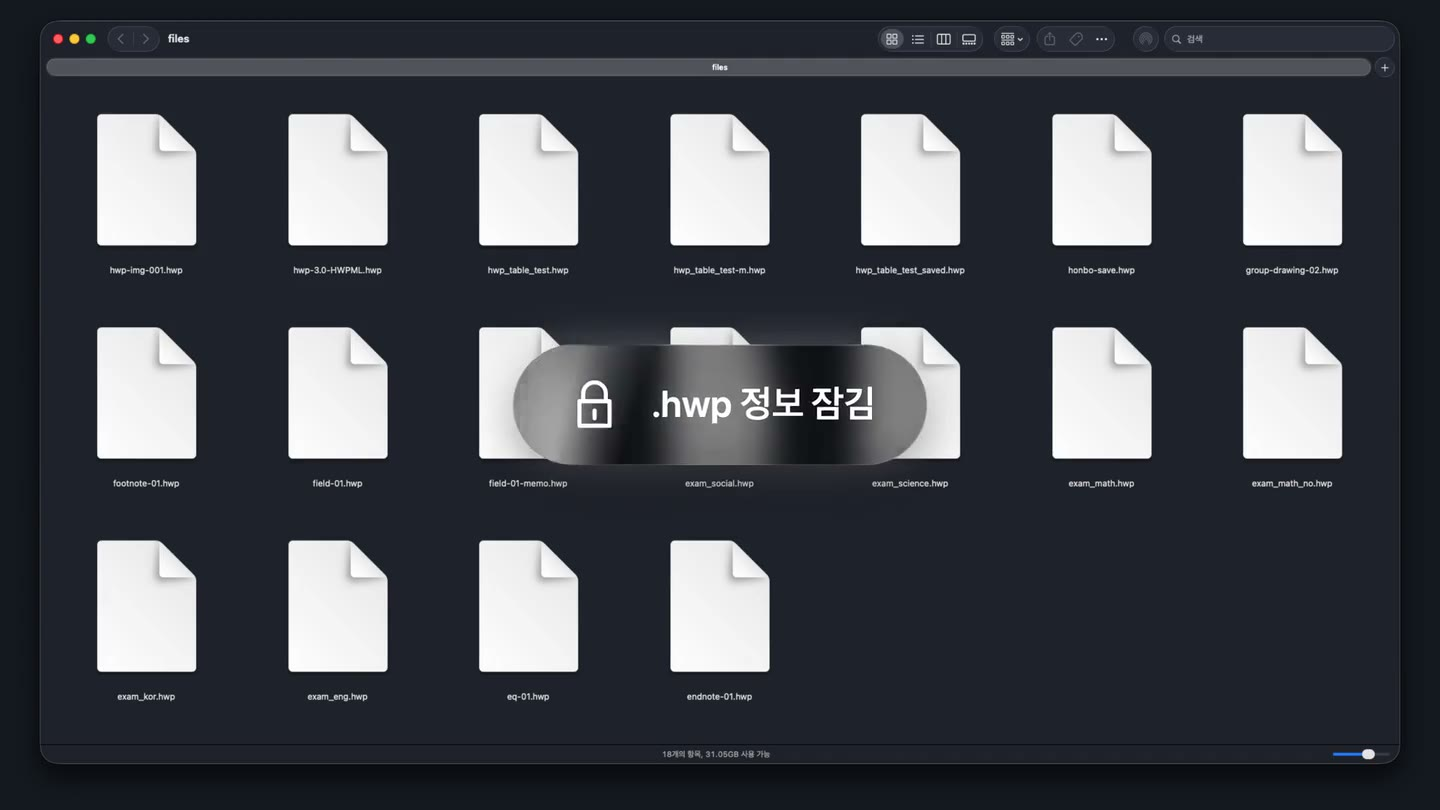
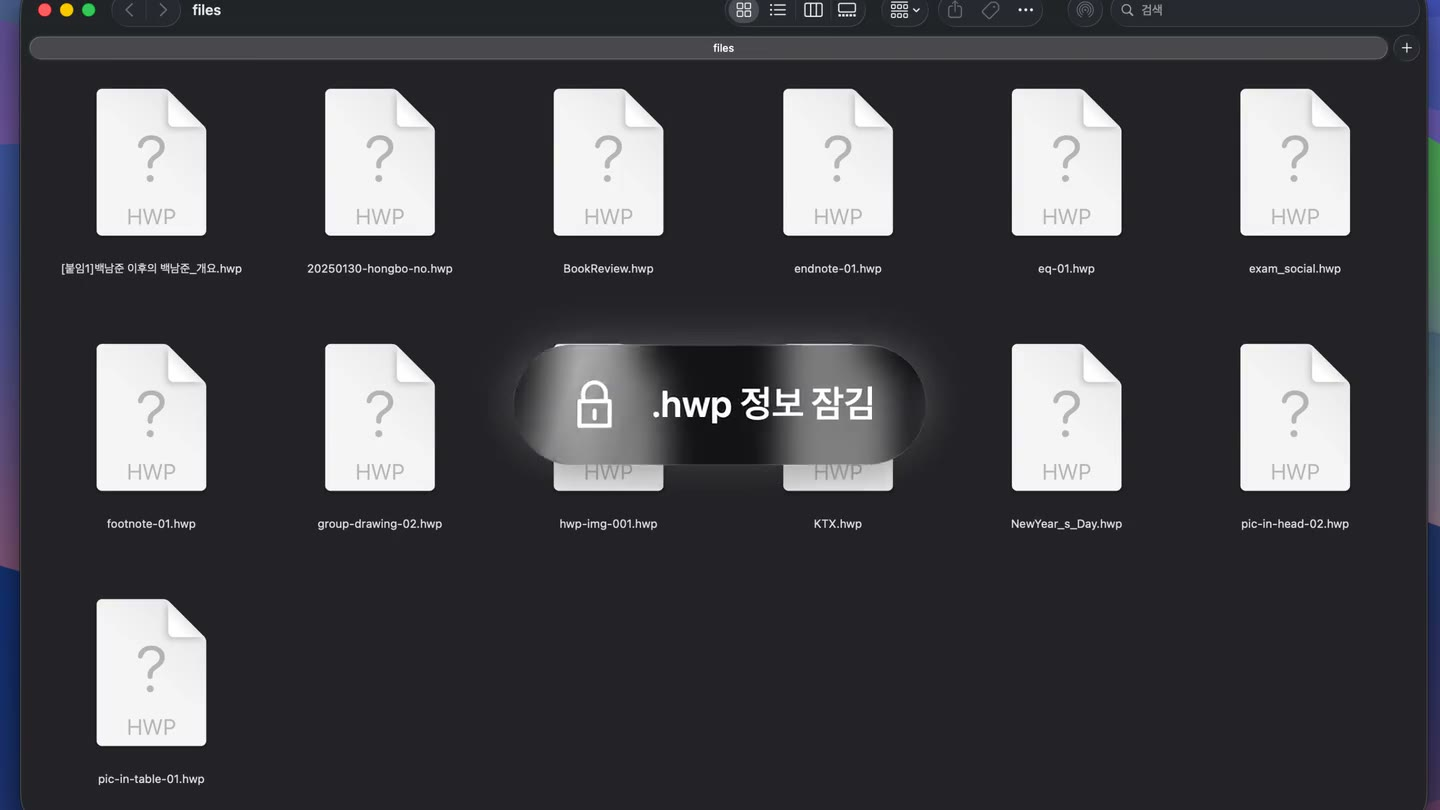
Update Finder feature video assets

diff --git a/docs/index.html b/docs/index.html
@@ -134,8 +134,8 @@
           <figure class="feature-visual" aria-label="알한글 기능 동영상 미리보기">
             <div class="feature-video-shell">
               <video id="feature-video-0" class="feature-video is-active" data-feature-video="0"
-                src="./assets/feature-finder-thumbnail.mp4?v=20260509-finder-lock-motion-15x"
-                poster="./assets/feature-finder-thumbnail-poster.jpg?v=20260509-finder-lock-motion-15x" muted playsinline
+                src="./assets/feature-finder-thumbnail.mp4?v=20260513-finder-thumbnail-refresh"
+                poster="./assets/feature-finder-thumbnail-poster.jpg?v=20260513-finder-thumbnail-refresh" muted playsinline
                 preload="metadata" aria-hidden="false"></video>
               <video id="feature-video-1" class="feature-video" data-feature-video="1"
                 src="./assets/feature-quicklook.mp4" poster="./assets/feature-quicklook-poster.jpg" muted playsinline